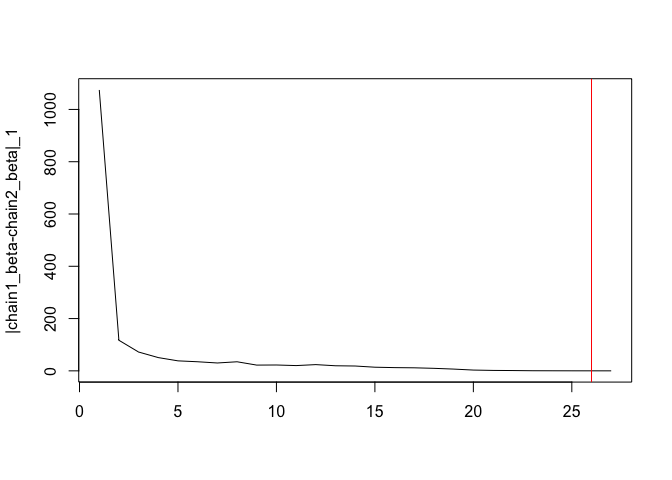
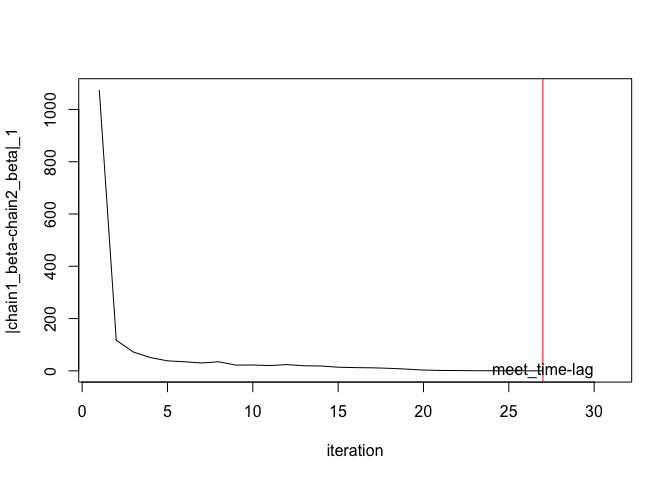
Update readme

diff --git a/README.md b/README.md
@@ -81,7 +81,8 @@ Run single chain MCMC and plot traceplots.
 ```r
 burnin <- 0
 chain_length <- 1000
-single_chain <- half_t_mcmc(chain_length, burnin, X, X_transpose, y, t_dist_df=2)
+single_chain <- 
+  half_t_mcmc(chain_length, burnin, X, X_transpose, y, t_dist_df=t_dist_df)
 matplot(single_chain$beta_samples[,seq(2,20,4)], type = 'l', ylab = 'Beta')
 abline(h=true_beta[seq(2,20,4)], col=c(1:5)) # Solid lines: true beta
 ```
@@ -94,7 +95,7 @@ Run coupled MCMC and plot distance between chains.
 ```r
 lag <- 100
 coupled_chain <- 
-  coupled_half_t_mcmc(mc_chain_size=1, X, X_transpose, y, t_dist_df=2, lag=lag)
+  coupled_half_t_mcmc(mc_chain_size=1, X, X_transpose, y, t_dist_df=t_dist_df, lag=lag)
 print(paste('Lag: ',lag,'.',' L-lag Meeting time: ',coupled_chain$meetingtime,'.',sep = ''))
 ```
 
@@ -107,30 +108,49 @@ print(paste('Lag: ',lag,'.',' L-lag Meeting time: ',coupled_chain$meetingtime,'.
 # dim(coupled_chain$beta_samples2)
 
 par(mfrow=c(1,1))
-matplot(coupled_chain$beta_samples1[2:(coupled_chain$meetingtime+2-lag),seq(2,20,4)], type = 'l',ylab = 'chain1 beta components')
+matplot(coupled_chain$beta_samples1[2:(coupled_chain$meetingtime+2-lag),seq(2,20,4)], type = 'l',ylab = 'chain1 beta components', xlab = 'iteration')
 ```
 
 ![](README_files/figure-html/coupled_chain_plot-1.png)<!-- -->
 
 ```r
-matplot(coupled_chain$beta_samples2[1:(coupled_chain$meetingtime+1-lag),seq(2,20,4)], type = 'l',ylab = 'chain2 beta components')
+matplot(coupled_chain$beta_samples2[1:(coupled_chain$meetingtime+1-lag),seq(2,20,4)], type = 'l',ylab = 'chain2 beta components', xlab = 'iteration')
 ```
 
 ![](README_files/figure-html/coupled_chain_plot-2.png)<!-- -->
 
 ```r
-matplot(rowSums(abs(coupled_chain$beta_samples1[2:(coupled_chain$meetingtime+2-lag),]-coupled_chain$beta_samples2[c(1:(coupled_chain$meetingtime+1-lag)),])), type='l', ylab = '|chain1_beta-chain2_beta|_1')
-abline(v=(coupled_chain$meetingtime-lag), col='red')
+par(mfrow=c(1,1))
+matplot(rowSums(abs(coupled_chain$beta_samples1[2:(coupled_chain$meetingtime+2-lag),]-coupled_chain$beta_samples2[c(1:(coupled_chain$meetingtime+1-lag)),])), type='l', ylab = '|chain1_beta-chain2_beta|_1', xlab = 'iteration', xlim = c(1,(coupled_chain$meetingtime+5-lag)))
+abline(v=(coupled_chain$meetingtime+1-lag), col='red')
+text(x=(coupled_chain$meetingtime+1-lag), y=0, "meet_time-lag")
 ```
 
 ![](README_files/figure-html/coupled_chain_plot-3.png)<!-- -->
 
 ```r
-matplot(rowSums(abs(coupled_chain$eta_samples1[2:(coupled_chain$meetingtime+2-lag),]-coupled_chain$eta_samples2[c(1:(coupled_chain$meetingtime+1-lag)),])), type='l', ylab = '|chain1_eta-chain2_eta|_1')
-abline(v=(coupled_chain$meetingtime-lag), col='red')
+matplot(rowSums(abs(coupled_chain$eta_samples1[2:(coupled_chain$meetingtime+2-lag),]-coupled_chain$eta_samples2[c(1:(coupled_chain$meetingtime+1-lag)),])), type='l', ylab = '|chain1_eta-chain2_eta|_1', xlab = 'iteration', xlim = c(1,(coupled_chain$meetingtime+5-lag)))
+abline(v=(coupled_chain$meetingtime+1-lag), col='red')
+text(x=(coupled_chain$meetingtime+1-lag), y=0, "meet_time-lag")
 ```
 
 ![](README_files/figure-html/coupled_chain_plot-4.png)<!-- -->
+
+```r
+matplot((abs(coupled_chain$xi_samples1[2:(coupled_chain$meetingtime+2-lag)]-coupled_chain$xi_samples2[c(1:(coupled_chain$meetingtime+1-lag))])), type='l', ylab = '|chain1_xi-chain2_xi|_1', xlab = 'iteration', xlim = c(1,(coupled_chain$meetingtime+5-lag)))
+abline(v=(coupled_chain$meetingtime+1-lag), col='red')
+text(x=(coupled_chain$meetingtime+1-lag), y=0, "meet_time-lag")
+```
+
+![](README_files/figure-html/coupled_chain_plot-5.png)<!-- -->
+
+```r
+matplot((abs(coupled_chain$xi_samples1[2:(coupled_chain$meetingtime+2-lag)]-coupled_chain$xi_samples2[c(1:(coupled_chain$meetingtime+1-lag))])), type='l', ylab = '|chain1_sigma-chain2_sigma|_1', xlab = 'iteration', xlim = c(1,(coupled_chain$meetingtime+5-lag)))
+abline(v=(coupled_chain$meetingtime+1-lag), col='red')
+text(x=(coupled_chain$meetingtime+1-lag), y=0, "meet_time-lag")
+```
+
+![](README_files/figure-html/coupled_chain_plot-6.png)<!-- -->
 
 Run coupled MCMC and generate meeting times. 
 
